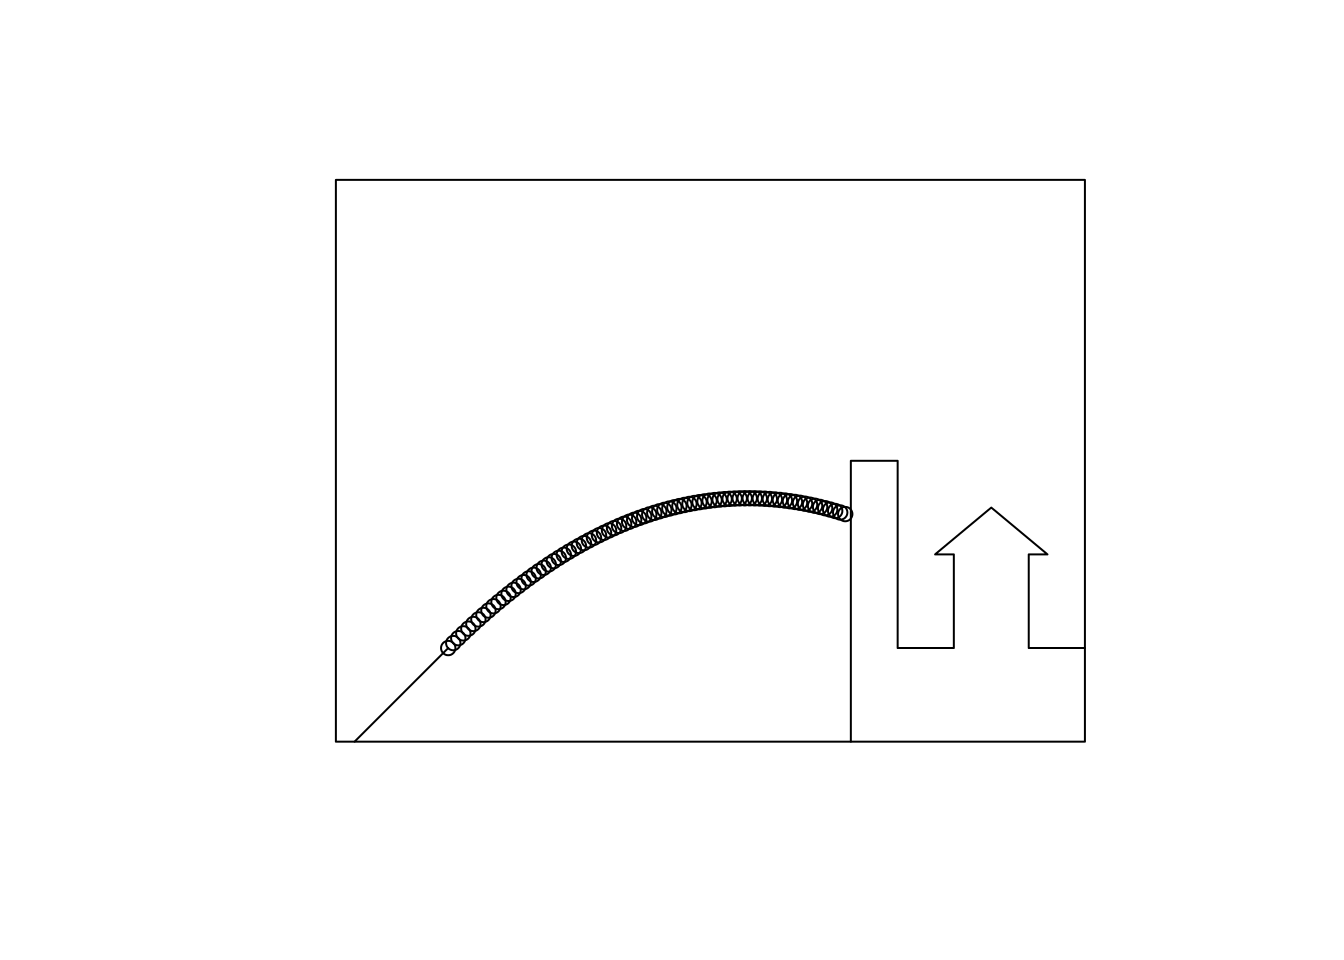
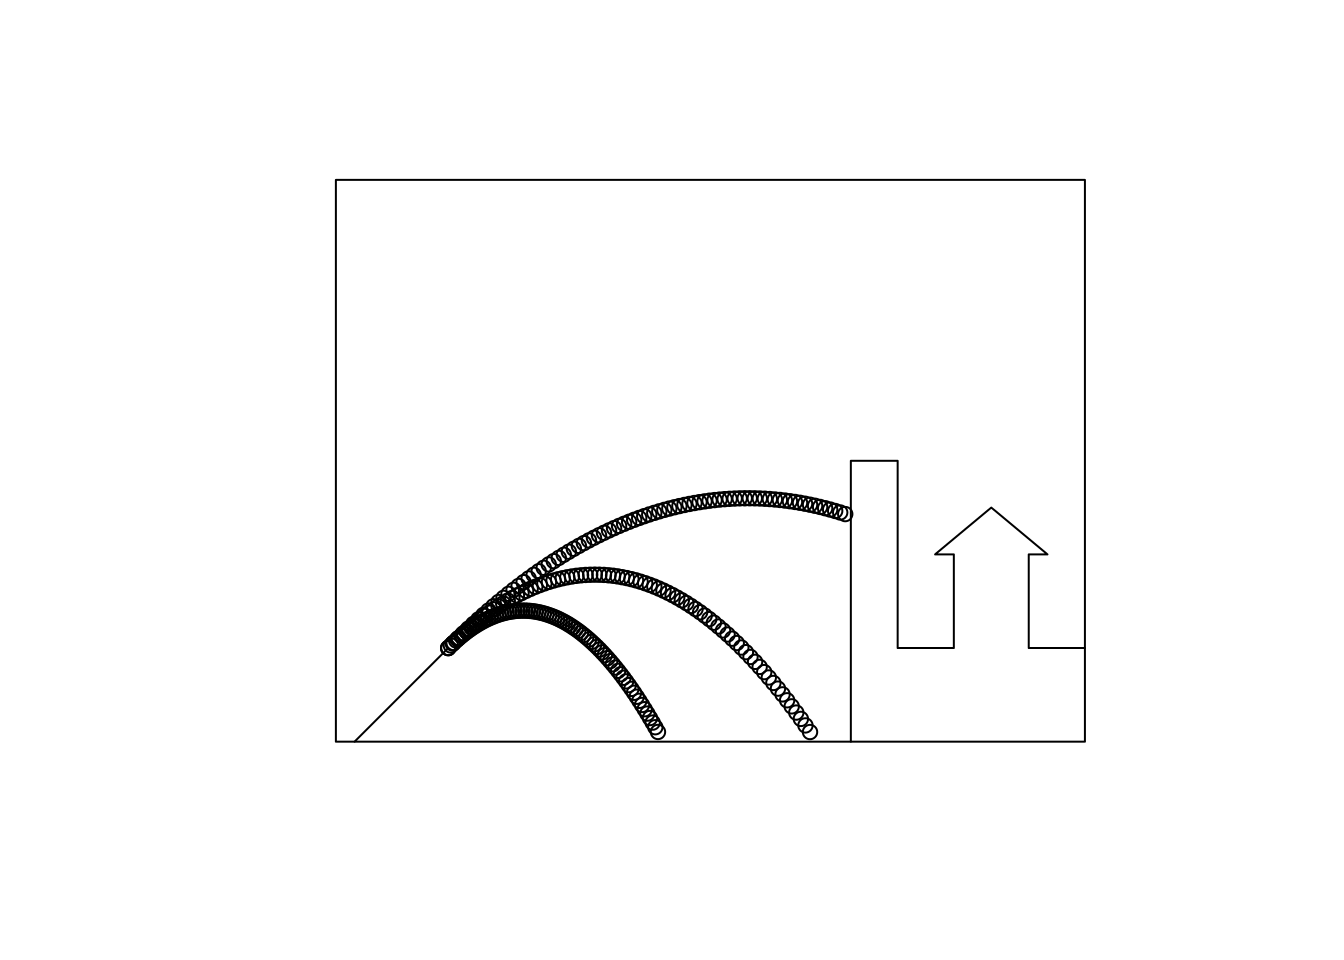
Update.

diff --git a/info1_lab09.html b/info1_lab09.html
@@ -573,24 +573,24 @@ div.tocify {
 <p>Program powinien:</p>
 <ul>
 <li>Otwierać okno graficzne o wymiarach <span class="math inline">\(800 \times 600\)</span>.</li>
-<li>Rysować zamek, który będzie ostrzeliwany (kod funkcji rysującej zamek możesz znaleźć na końcu instrukcji).</li>
-<li>W pętli:
+<li>W pętli głównej:
 <ul>
-<li>wczytywać z klawiatury wartość prędkości wylotowej kuli <span class="math inline">\(V_0\)</span>, kąta odchylenia lufy od poziomu <span class="math inline">\(\alpha\)</span> oraz położenie armaty na osi <span class="math inline">\(x\)</span> (wylot armaty zawsze ma się znajdować <span class="math inline">\(50\)</span> pikseli powyżej poziomu ziemi).</li>
-<li>ustawiać i rysować schematycznie armatę jako jedną linię (należy sprawdzać czy w danym miejscu da się postawić armatę – mur zamku znajduje się w obszarze <span class="math inline">\(x \geq 550\)</span> (dla uproszczenia radzimy rysować armatę, jako linię o górnym wierzchołku w punkcie <span class="math inline">\((x, 50)\)</span> i dolnym wierzchołku zależnym od kąta wychylenia).</li>
-<li>wykonywać strzał kulą i rysować jej tor za pomocą gęsto rozłożonych okręgów o małym promieniu – użyj funkcji <code>animate()()</code> w celu uzyskania efektu płynnego ruchu kuli (przykład użycia funkcji <code>animate()</code> na końcu instrukcji). Tor rzutu ukośnego zadany jest wzorami: <span class="math display">\[
-x(t) = x_0 + V_0 sin(\alpha)t
+<li>wczytywać z klawiatury wartość prędkości wylotowej kuli <span class="math inline">\(V_0\)</span>, kąta odchylenia lufy od poziomu <span class="math inline">\(\alpha\)</span> oraz położenia armaty na osi <span class="math inline">\(x\)</span> (wylot armaty zawsze ma się znajdować <span class="math inline">\(50\)</span> pikseli powyżej poziomu ziemi).</li>
+<li>ustawiać i rysować schematycznie armatę jako linię (należy sprawdzać czy w danym miejscu da się postawić armatę – mur zamku znajduje się w obszarze <span class="math inline">\(x \geq 550\)</span> (dla uproszczenia radzimy rysować armatę, jako linię o górnym wierzchołku w punkcie <span class="math inline">\((x, 50)\)</span> i dolnym wierzchołku zależnym od kąta wychylenia).</li>
+<li>w wenętrznej pętli służącej do animacji strzału:
+<ul>
+<li>rysować zamek, który będzie ostrzeliwany (kod funkcji rysującej zamek możesz znaleźć na końcu instrukcji).</li>
+<li>wykonywać strzał kulą i rysować jej tor za pomocą gęsto rozłożonych okręgów o małym promieniu (użyj funkcji <code>animate()</code> w celu uzyskania efektu płynnego ruchu kuli – przykład użycia funkcji <code>animate()</code> znajdziesz na końcu instrukcji).<br />
+Tor rzutu ukośnego zadany jest wzorami: <span class="math display">\[
+x(t) = x_0 + V_0 \cos(\alpha)t
 \]</span> <span class="math display">\[
-y(t) = y_0 + V_0 cos(\alpha)t - \frac{gt^2}{2}.
-\]</span> Program powinien sprawdzać w pętli czy kula nie uderzyła w pierwszą, pionową ścianę zamku. Jeśli tak, kula ma się na niej zatrzymać, a pętla ulec przerwaniu. W przeciwnym razie, program ma tak długo rysować ruch kuli, aż ta znajdzie się poniżej poziomu ziemii. Ściana zamku zawiera się w przedziale <span class="math inline">\(550 \leq x \leq 600\)</span> a jej górna powierzchnia ma współrzędną <span class="math inline">\(y = 300\)</span>.<br />
+y(t) = y_0 + V_0 \sin(\alpha)t - \frac{gt^2}{2}.
+\]</span> Program powinien sprawdzać w wewnętrznej pętli czy kula nie uderzyła w pierwszą, pionową ścianę zamku. Jeśli tak, kula ma się na niej zatrzymać, a pętla ulec przerwaniu. W przeciwnym razie, program ma tak długo rysować ruch kuli, aż ta znajdzie się poniżej poziomu ziemi. Ściana zamku zawiera się w przedziale <span class="math inline">\(550 \leq x \leq 600\)</span> a jej górna powierzchnia ma współrzędną <span class="math inline">\(y = 300\)</span>.<br />
 Pamiętaj o przeliczeniu współrzędnych fizycznych (pionowej) na współrzędną w układzie współrzędnych ekranu oraz przeliczeniu kąta podawanego w stopniach na kąt podany w radianach na potrzeby funkcji trygonometrycznych.</li>
-<li>zapytać, po wykonanym strzale, czy udało się trafić w zamek. Jeśli odpowiesz twierdząco, program powinien zakończyć działanie. Jeśli przecząco, program powinien pozwolić wybrać nowe parametry i pownowny strzał.</li>
+</ul></li>
+<li>zapytać, po wykonanym strzale, czy udało się trafić w zamek. Jeśli odpowiesz twierdząco, program powinien wyjść z pętli głównej i zakończyć działanie. Jeśli przecząco, program powinien pozwolić wybrać nowe parametry i pownowny strzał.</li>
 </ul></li>
 </ul>
-<div id="wskazowka" class="section level2">
-<h2>Wskazówka</h2>
-<p>W niniejszym programie nie musisz używać funkcji <code>wait()</code>. Program z dalszym wykonaniem będzie czekać na podanie nowego zestawu danych do funkcji <code>scanf()</code>.</p>
-</div>
 <div id="oczekiwany-wynik" class="section level2">
 <h2>Oczekiwany wynik</h2>
 <p>Spodziewamy się, że wynikiem działania Twojego programu będzie rysynek zbliżony do poniższego:</p>
@@ -598,23 +598,8 @@ Pamiętaj o przeliczeniu współrzędnych fizycznych (pionowej) na współrzędn
 </div>
 <div id="dodatki" class="section level2">
 <h2>Dodatki</h2>
-<p>Funkcja <code>animate()</code> tak naprawdę jedynie spowalnia wykonywanie pętli <code>while</code> tak, aby kółka nie rysowały się zbyt szybko. Przykład jej użycia wygląda następująco:</p>
-<div class="sourceCode"><pre class="sourceCode cpp"><code class="sourceCode cpp"><span class="co">/*</span>
-<span class="co">  wartosc 0 oznacza najszybsze mozliwe</span>
-<span class="co">  wykonanie (brak opoznienia)</span>
-<span class="co">*/</span>
-
-<span class="kw">while</span>(animate(<span class="dv">100</span>)) {
-
-  <span class="co">// Oblicz tu nowe wspolrzedne x i y</span>
-  <span class="co">// Narysuj okrag w odpowiednim miejscu</span>
-  <span class="co">// Zwieksz parametr t</span>
-  <span class="co">// Zawrzyj warunek przerwania petli, gdy kula uderza</span>
-  <span class="co">// w sciane lub spada na ziemie</span>
-
-}
-
-<span class="dt">void</span> RysujZamek() {
+<p>Funkcja rysująca zamek:</p>
+<div class="sourceCode"><pre class="sourceCode cpp"><code class="sourceCode cpp"><span class="dt">void</span> RysujZamek() {
   line(<span class="dv">550</span>, <span class="dv">300</span>, <span class="dv">550</span>, <span class="dv">600</span>);
   line(<span class="dv">550</span>, <span class="dv">300</span>, <span class="dv">600</span>, <span class="dv">300</span>);
   line(<span class="dv">600</span>, <span class="dv">300</span>, <span class="dv">600</span>, <span class="dv">500</span>);
@@ -626,6 +611,27 @@ Pamiętaj o przeliczeniu współrzędnych fizycznych (pionowej) na współrzędn
   line(<span class="dv">760</span>, <span class="dv">400</span>, <span class="dv">740</span>, <span class="dv">400</span>);
   line(<span class="dv">740</span>, <span class="dv">400</span>, <span class="dv">740</span>, <span class="dv">500</span>);
   line(<span class="dv">740</span>, <span class="dv">500</span>, <span class="dv">800</span>, <span class="dv">500</span>);
+}</code></pre></div>
+<p>Funkcja <code>animate()</code> tak naprawdę jedynie spowalnia wykonywanie pętli <code>while</code> tak, aby kółka nie rysowały się zbyt szybko. Argument funkcji to wartość mówiąca o liczbie wykonań ciała pętli w ciągu sekundy. Uwaga: wartość zero mówi o wykonaniu ciała pętli bez opóźnienia.</p>
+<p>Przykład jej użycia w naszym programie wygląda następująco:</p>
+<div class="sourceCode"><pre class="sourceCode cpp"><code class="sourceCode cpp"><span class="kw">while</span>(<span class="dv">1</span>) {                     <span class="co">// petla glowna</span>
+
+  <span class="co">// wczytaj x0, V0 i kat alpha</span>
+
+  <span class="kw">while</span>(animate(<span class="dv">100</span>)) {        <span class="co">// petla animujaca lot kuli</span>
+  
+    <span class="co">// narysuj zamek i armate</span>
+    <span class="co">// oblicz nowe wspolrzedne x i y</span>
+    <span class="co">// narysuj okrag w odpowiednim miejscu</span>
+    <span class="co">// zwieksz parametr t</span>
+    <span class="co">// zawrzyj warunek przerwania petli animujacej,</span>
+    <span class="co">// gdy kula uderza w sciane lub spada na ziemie</span>
+  
+  }
+  
+  <span class="co">// zapytaj czy kula trafila w mur i jesli tak</span>
+  <span class="co">// wyjdz z petli glownej</span>
+  
 }</code></pre></div>
 </div>
 </div>

diff --git a/info1_lab05.html b/info1_lab05.html
@@ -534,7 +534,7 @@ div.tocify {
       </ul>
       <ul class="nav navbar-nav navbar-right">
         <li>
-  <a href="info1_lab05.pdf">
+  <a class="hidden">
     <span class="fa fa-file-pdf-o fa-lg"></span>
      
     Download PDF
